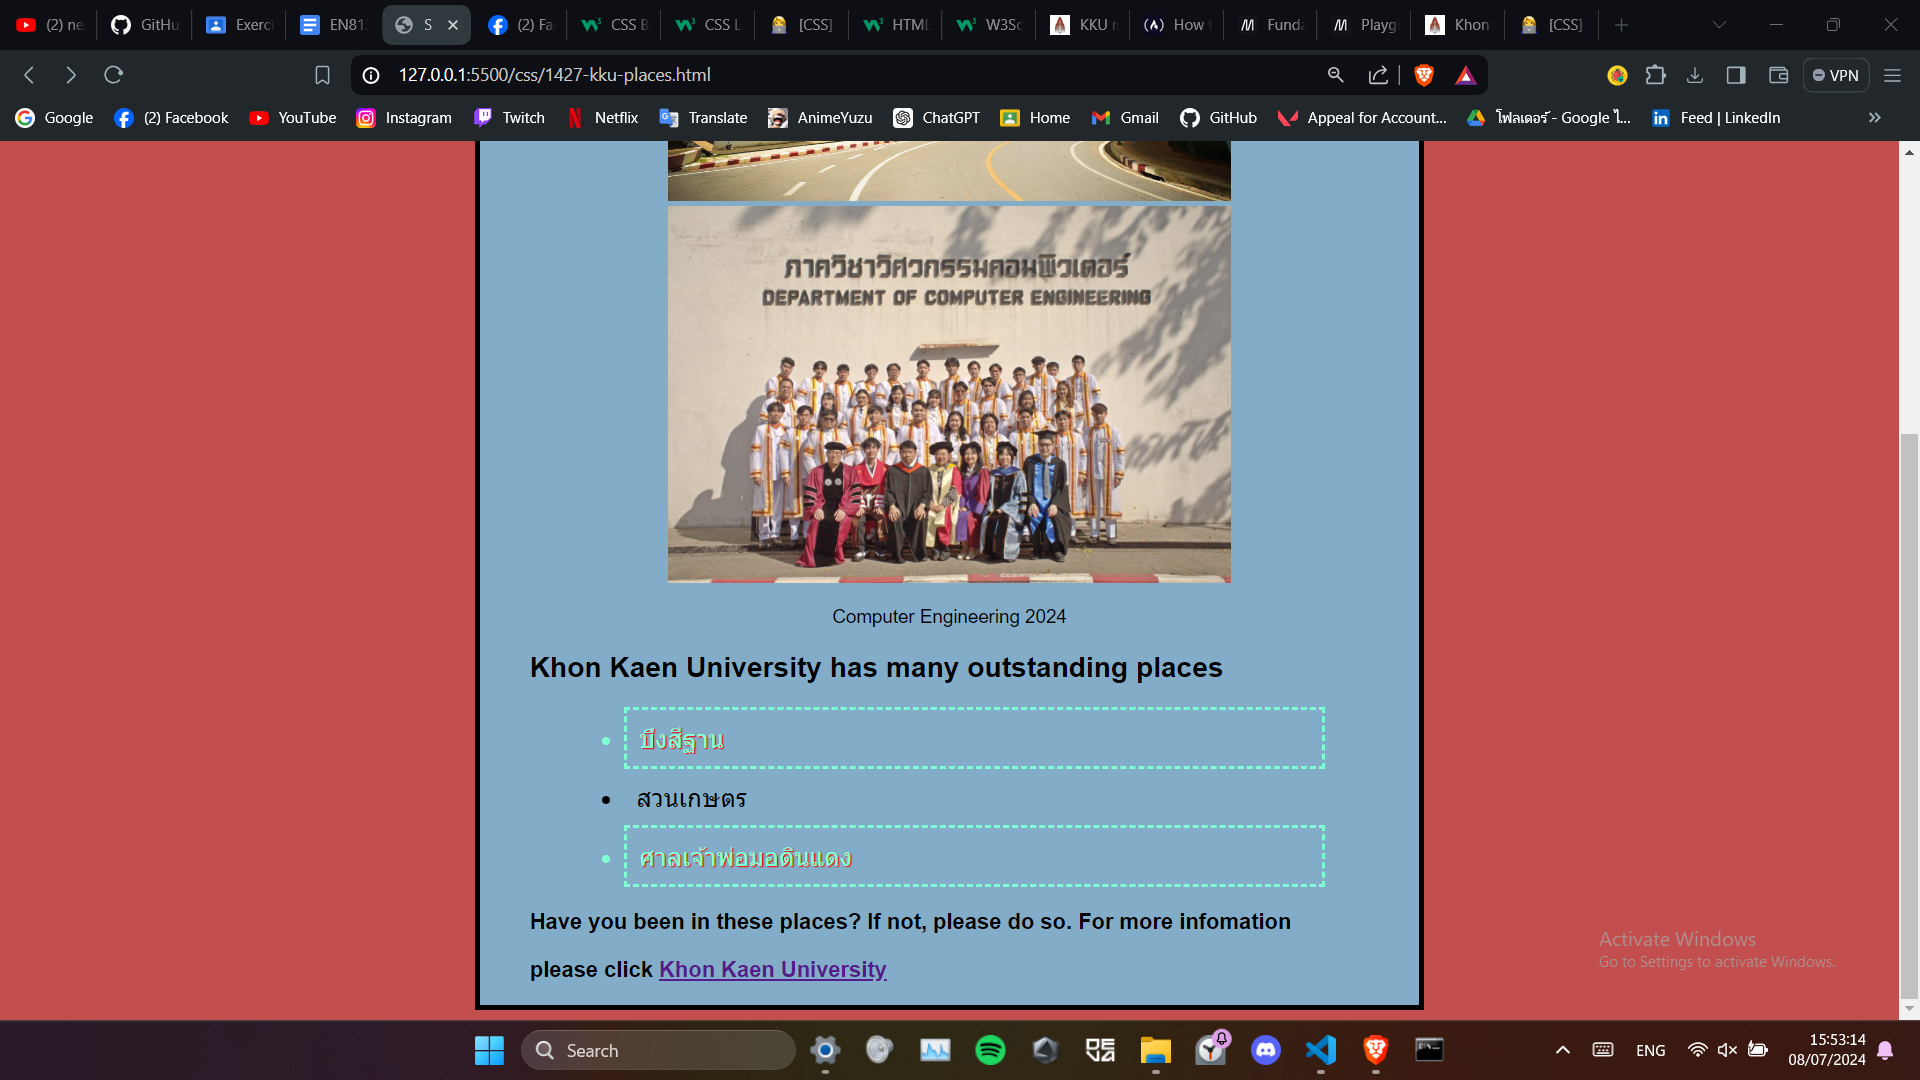
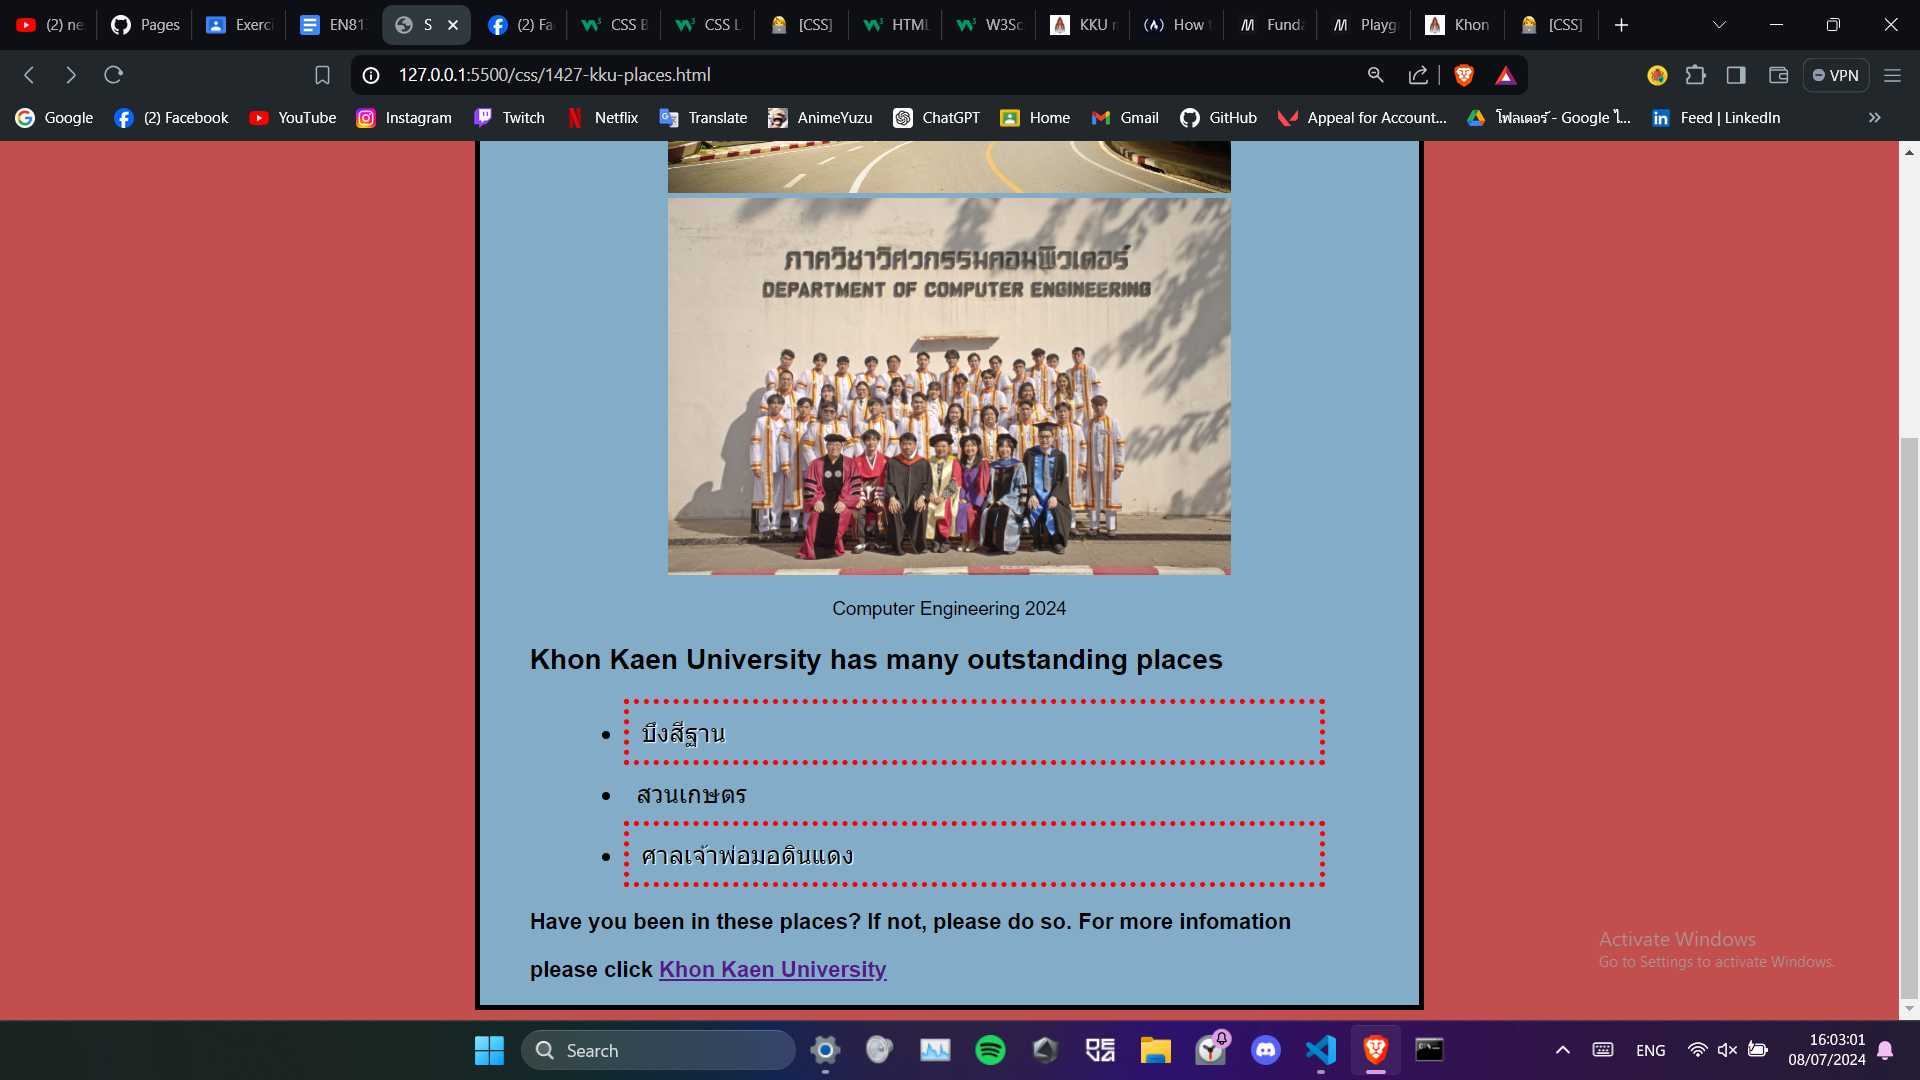
changed

diff --git a/css/1427-kku-places.css b/css/1427-kku-places.css
@@ -31,10 +31,10 @@ h3{
 
 li.popular{
     text-align: left;
-    border-style: dashed;
-    border-width: 3px;
-    color: aquamarine;
-    text-shadow: 1px 1px 1px red;
+    border-style: dotted;
+    border-width: 4px;
+    border-color: rgb(255, 0, 0);
+    text-shadow: 1px 1px 1px rgb(255, 255, 255);
     
 }
 
